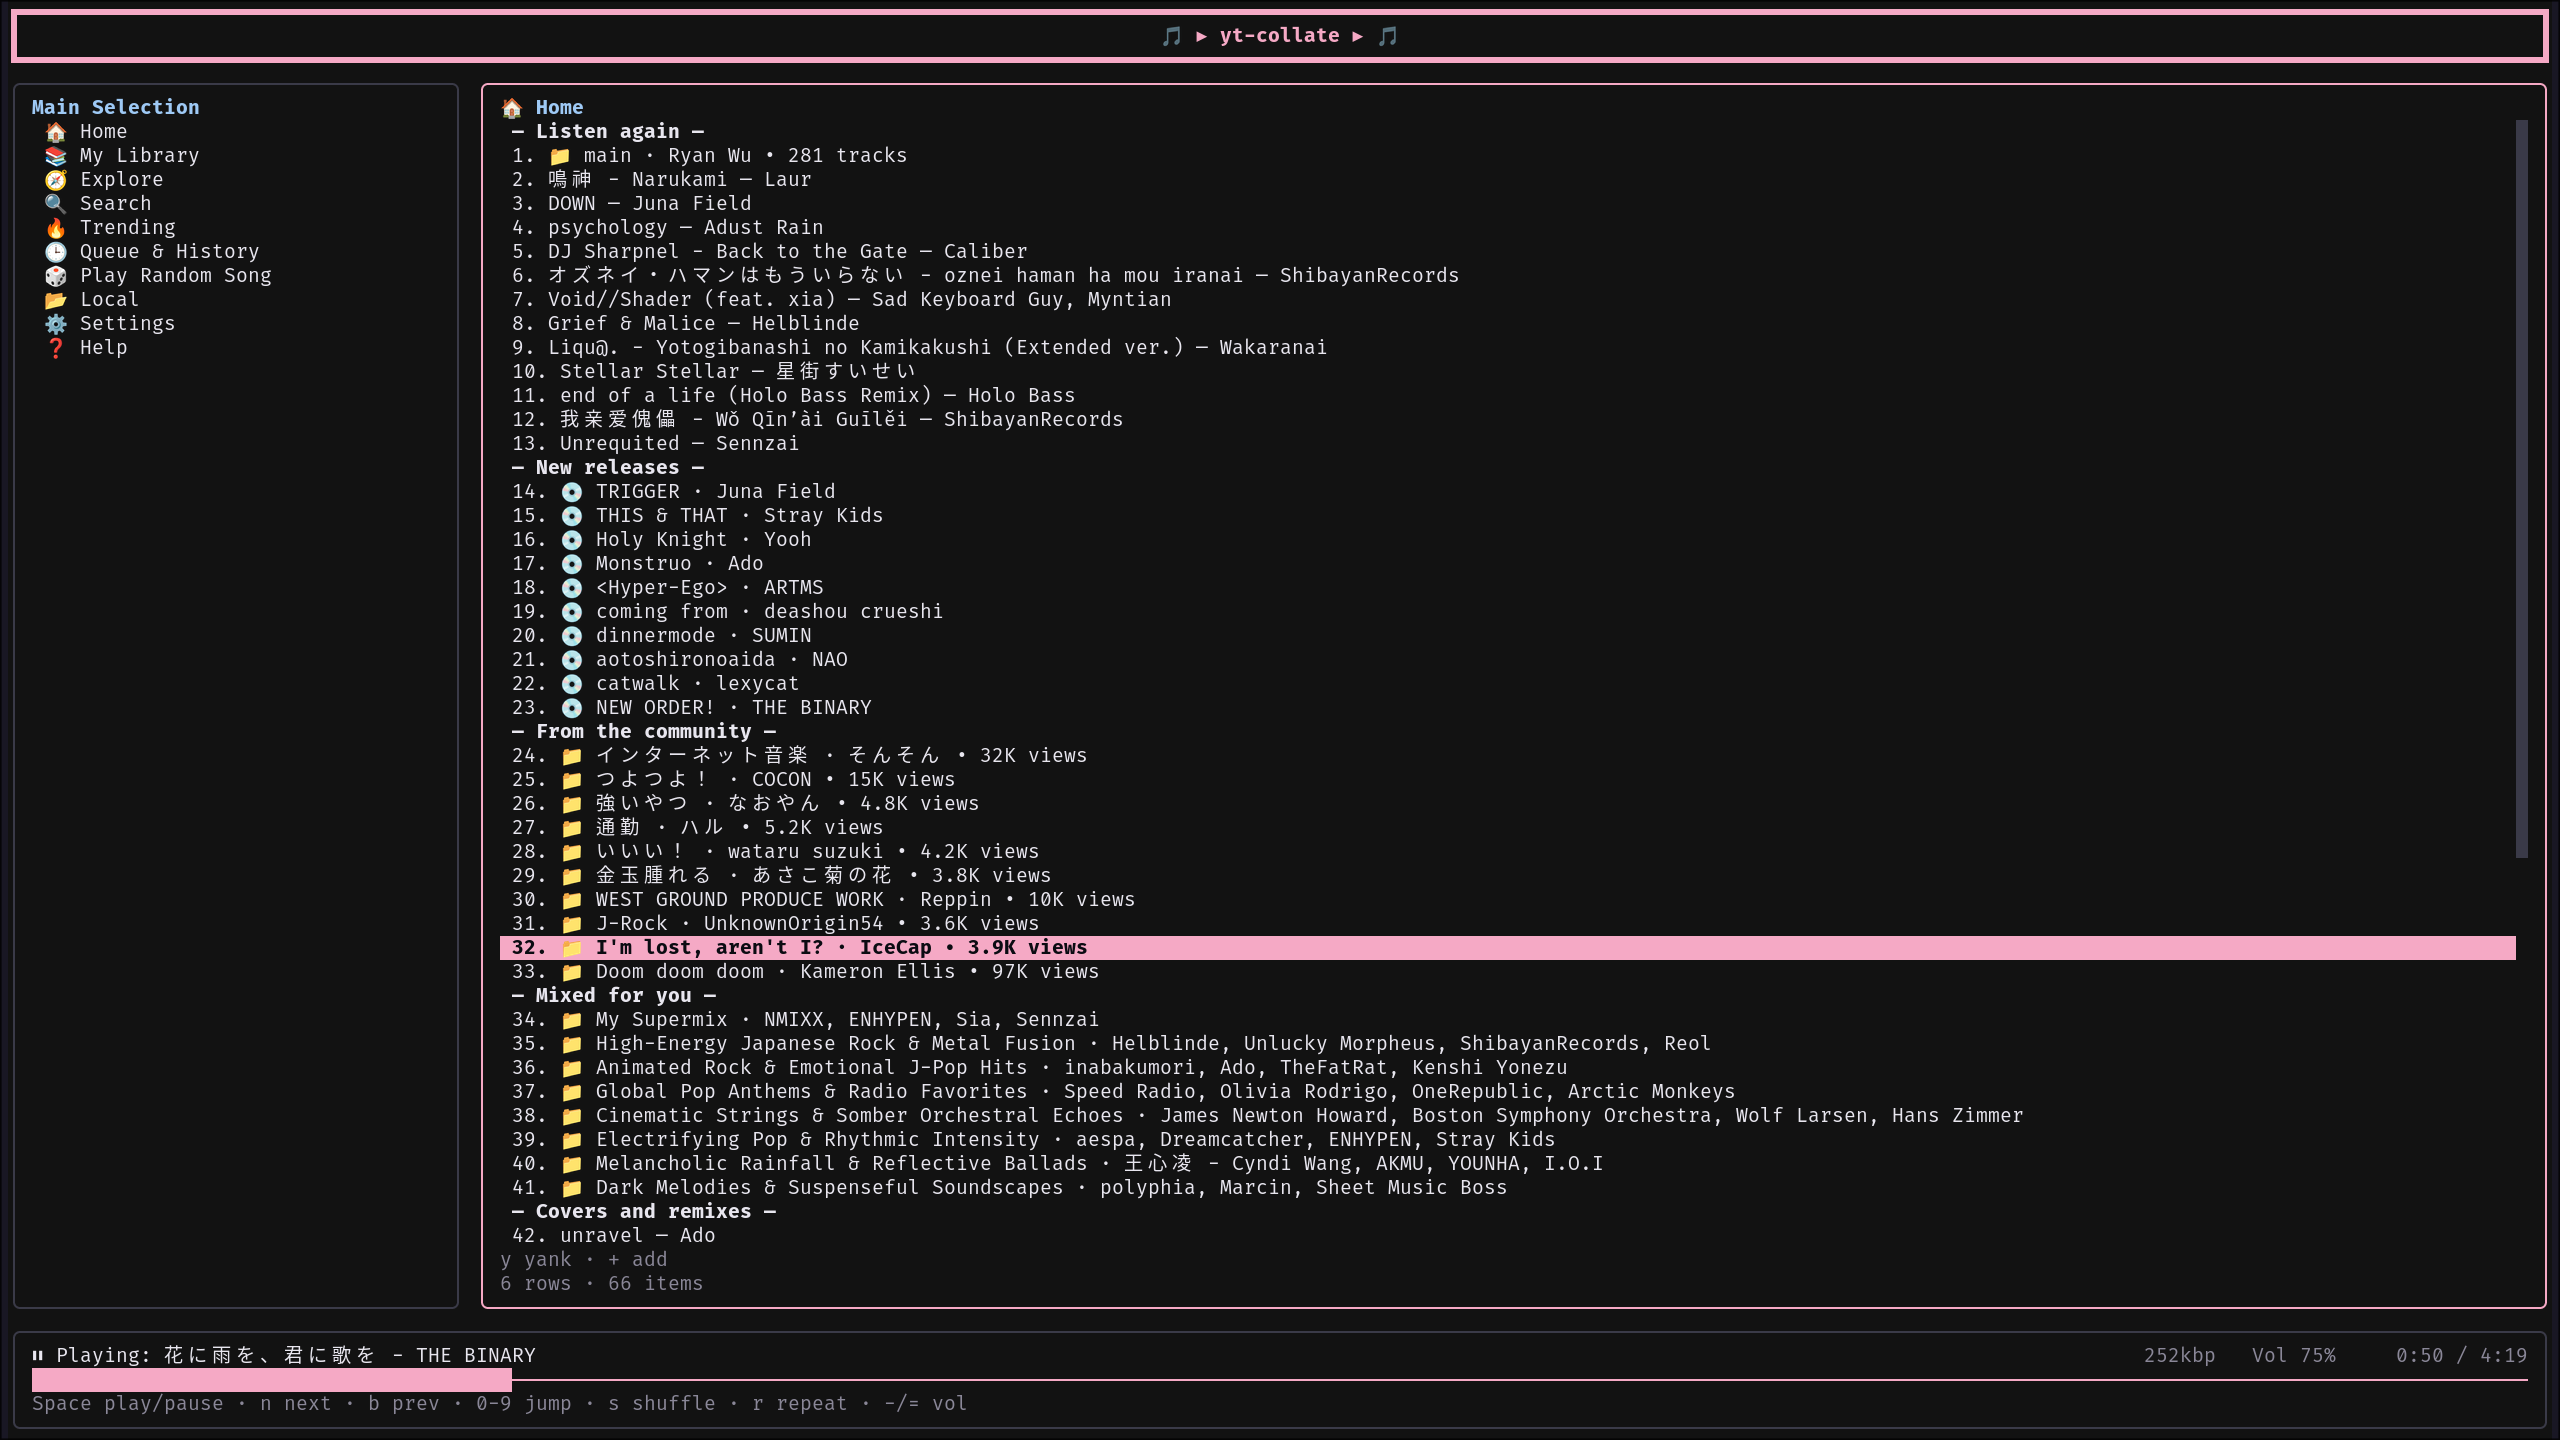
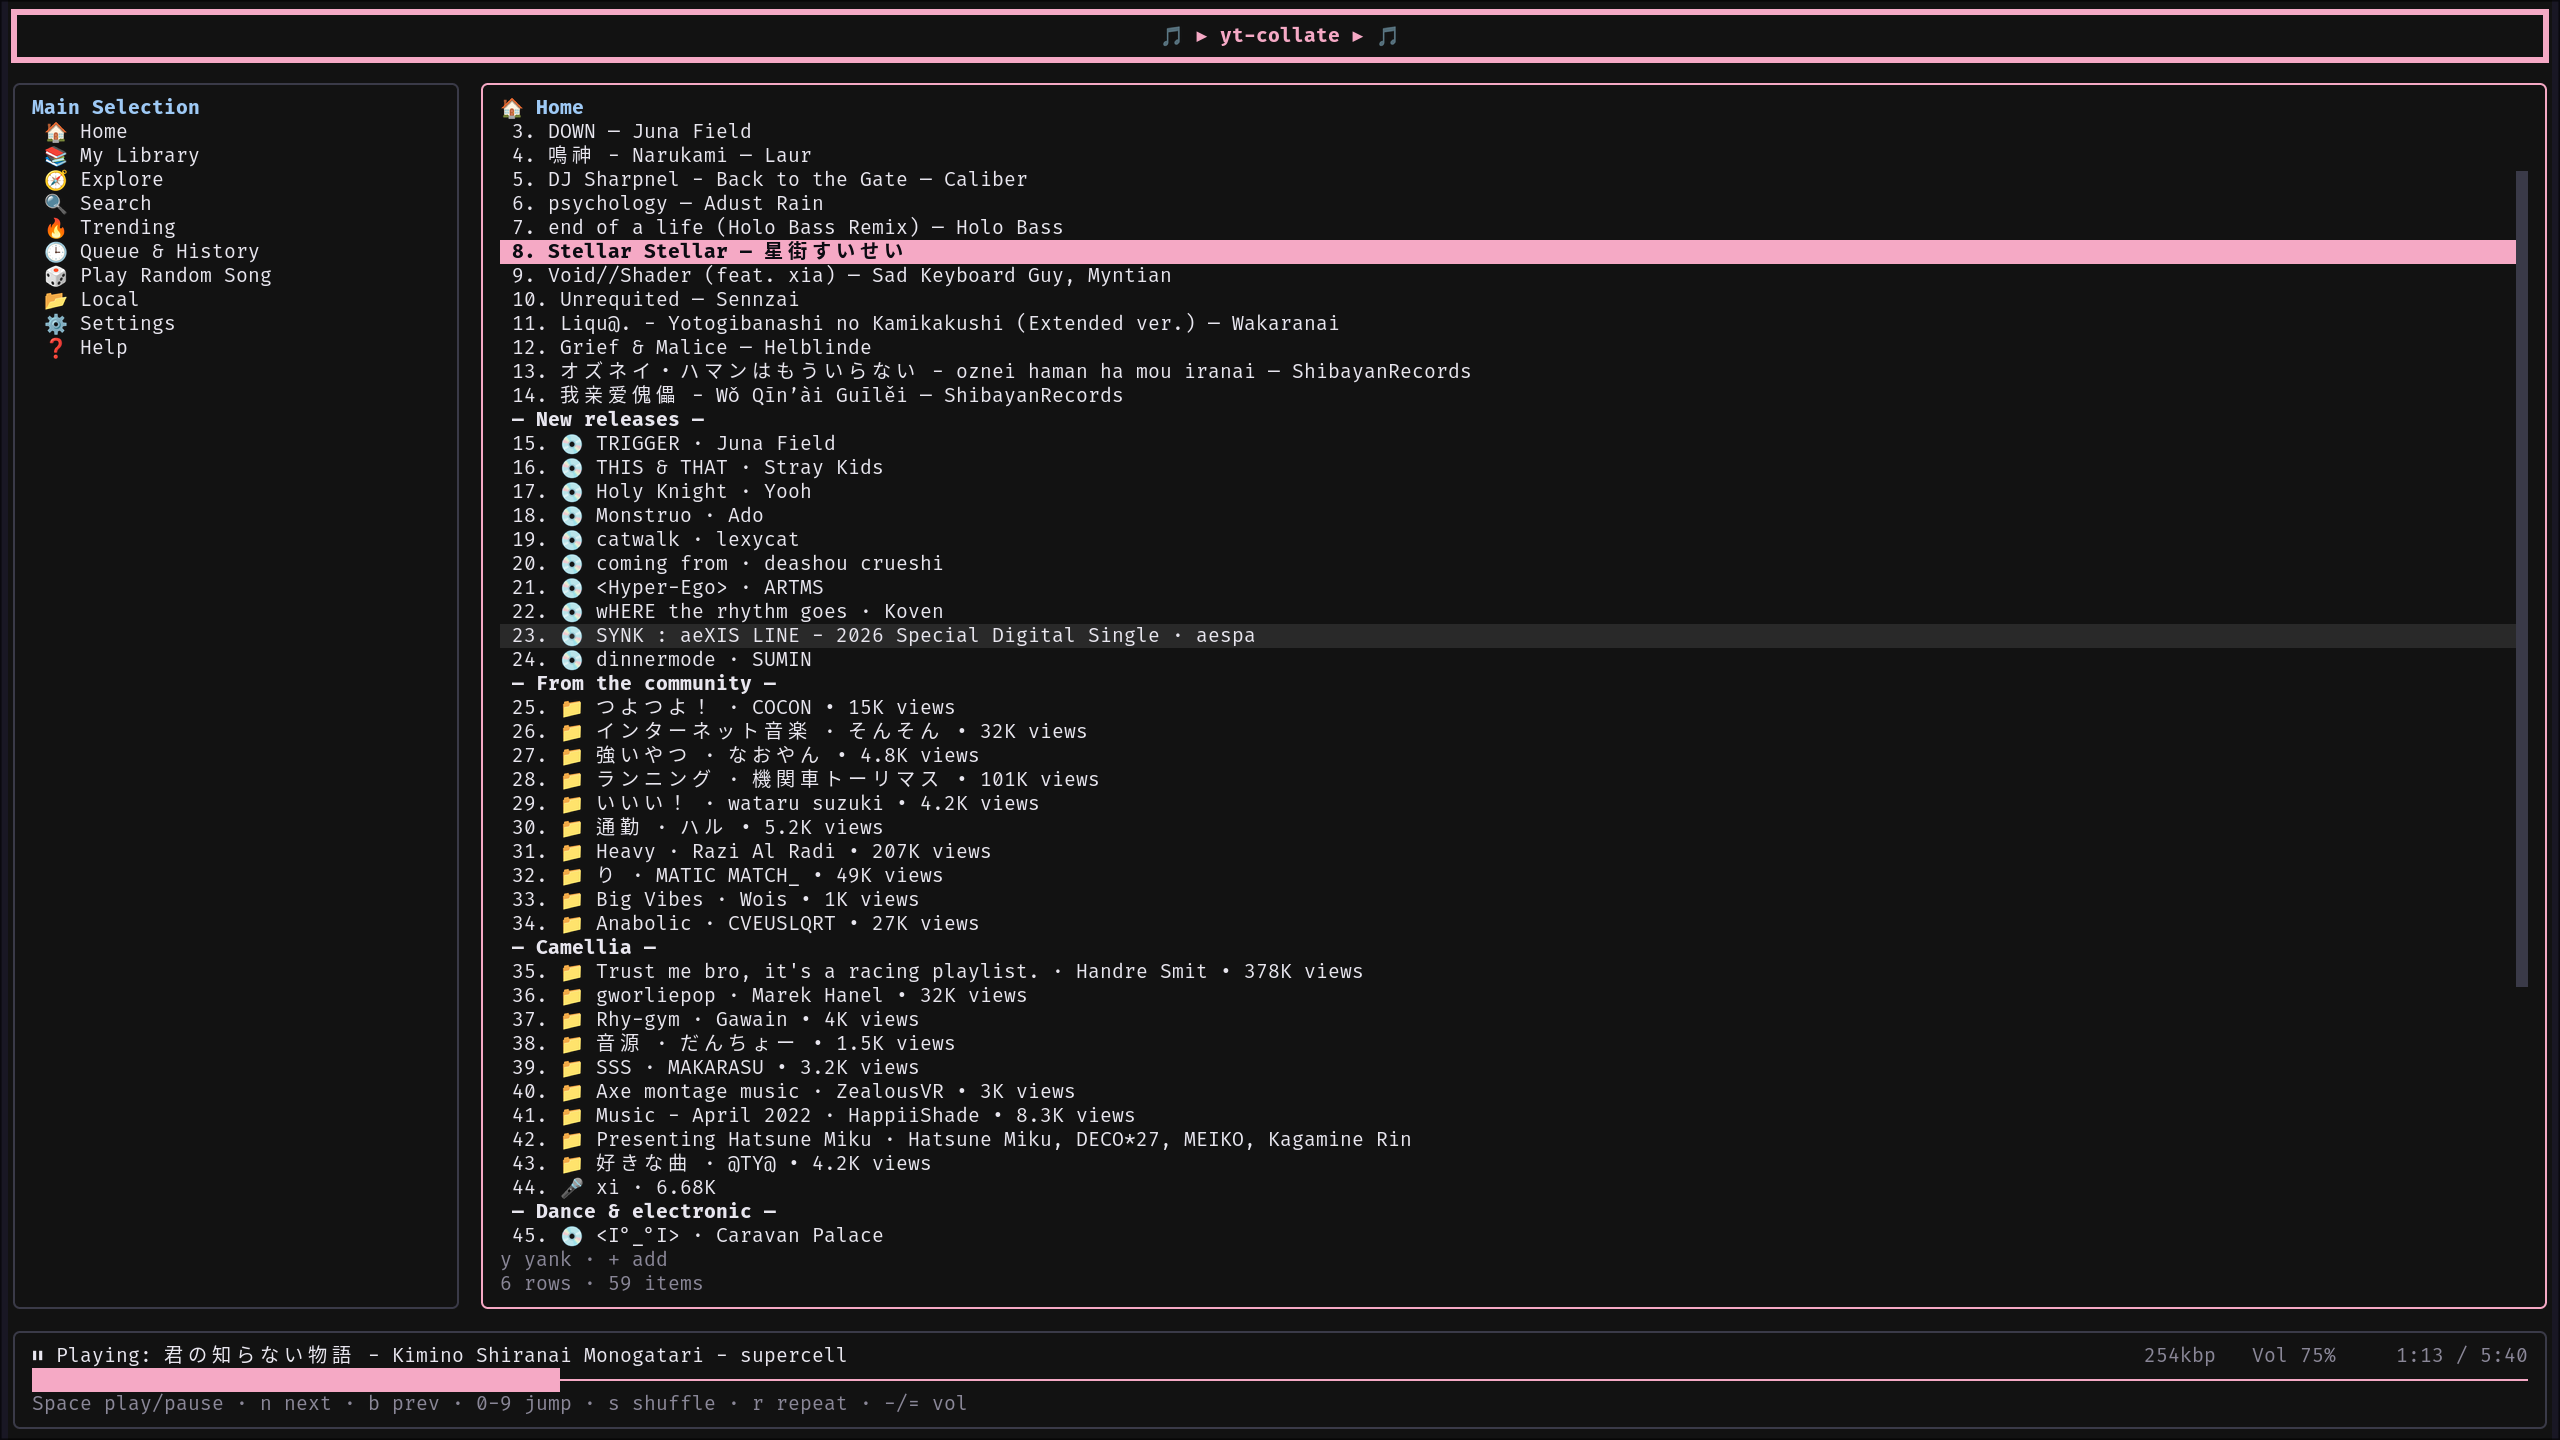
minor readme changes

diff --git a/README.md b/README.md
@@ -2,7 +2,7 @@
 
 A Terminal User Interface (TUI) music player for YouTube Music.
 
-Originally planned to only focus on gathering/arranging tracks in playlists, Collate has become a full-fledged music client rivaling the ease-of-use of GUI clients while requiring only a fraction of their resources usage.
+Originally planned to only focus on gathering/arranging tracks in playlists (hence name), Collate has become a full-fledged music client rivaling the ease-of-use of GUI clients while requiring only a fraction of their resources usage.
 
 Built with **Textual**, **ytmusicapi**, **mpv**, and **yt-dlp**. Keybinds are a mix of Vim binds and general binds for efficient keyboard-only navigation. Collate is inspired by [youtube-music-cli](https://github.com/involvex/youtube-music-cli) and [yazi](https://github.com/sxyazi/yazi); check them out!
 
